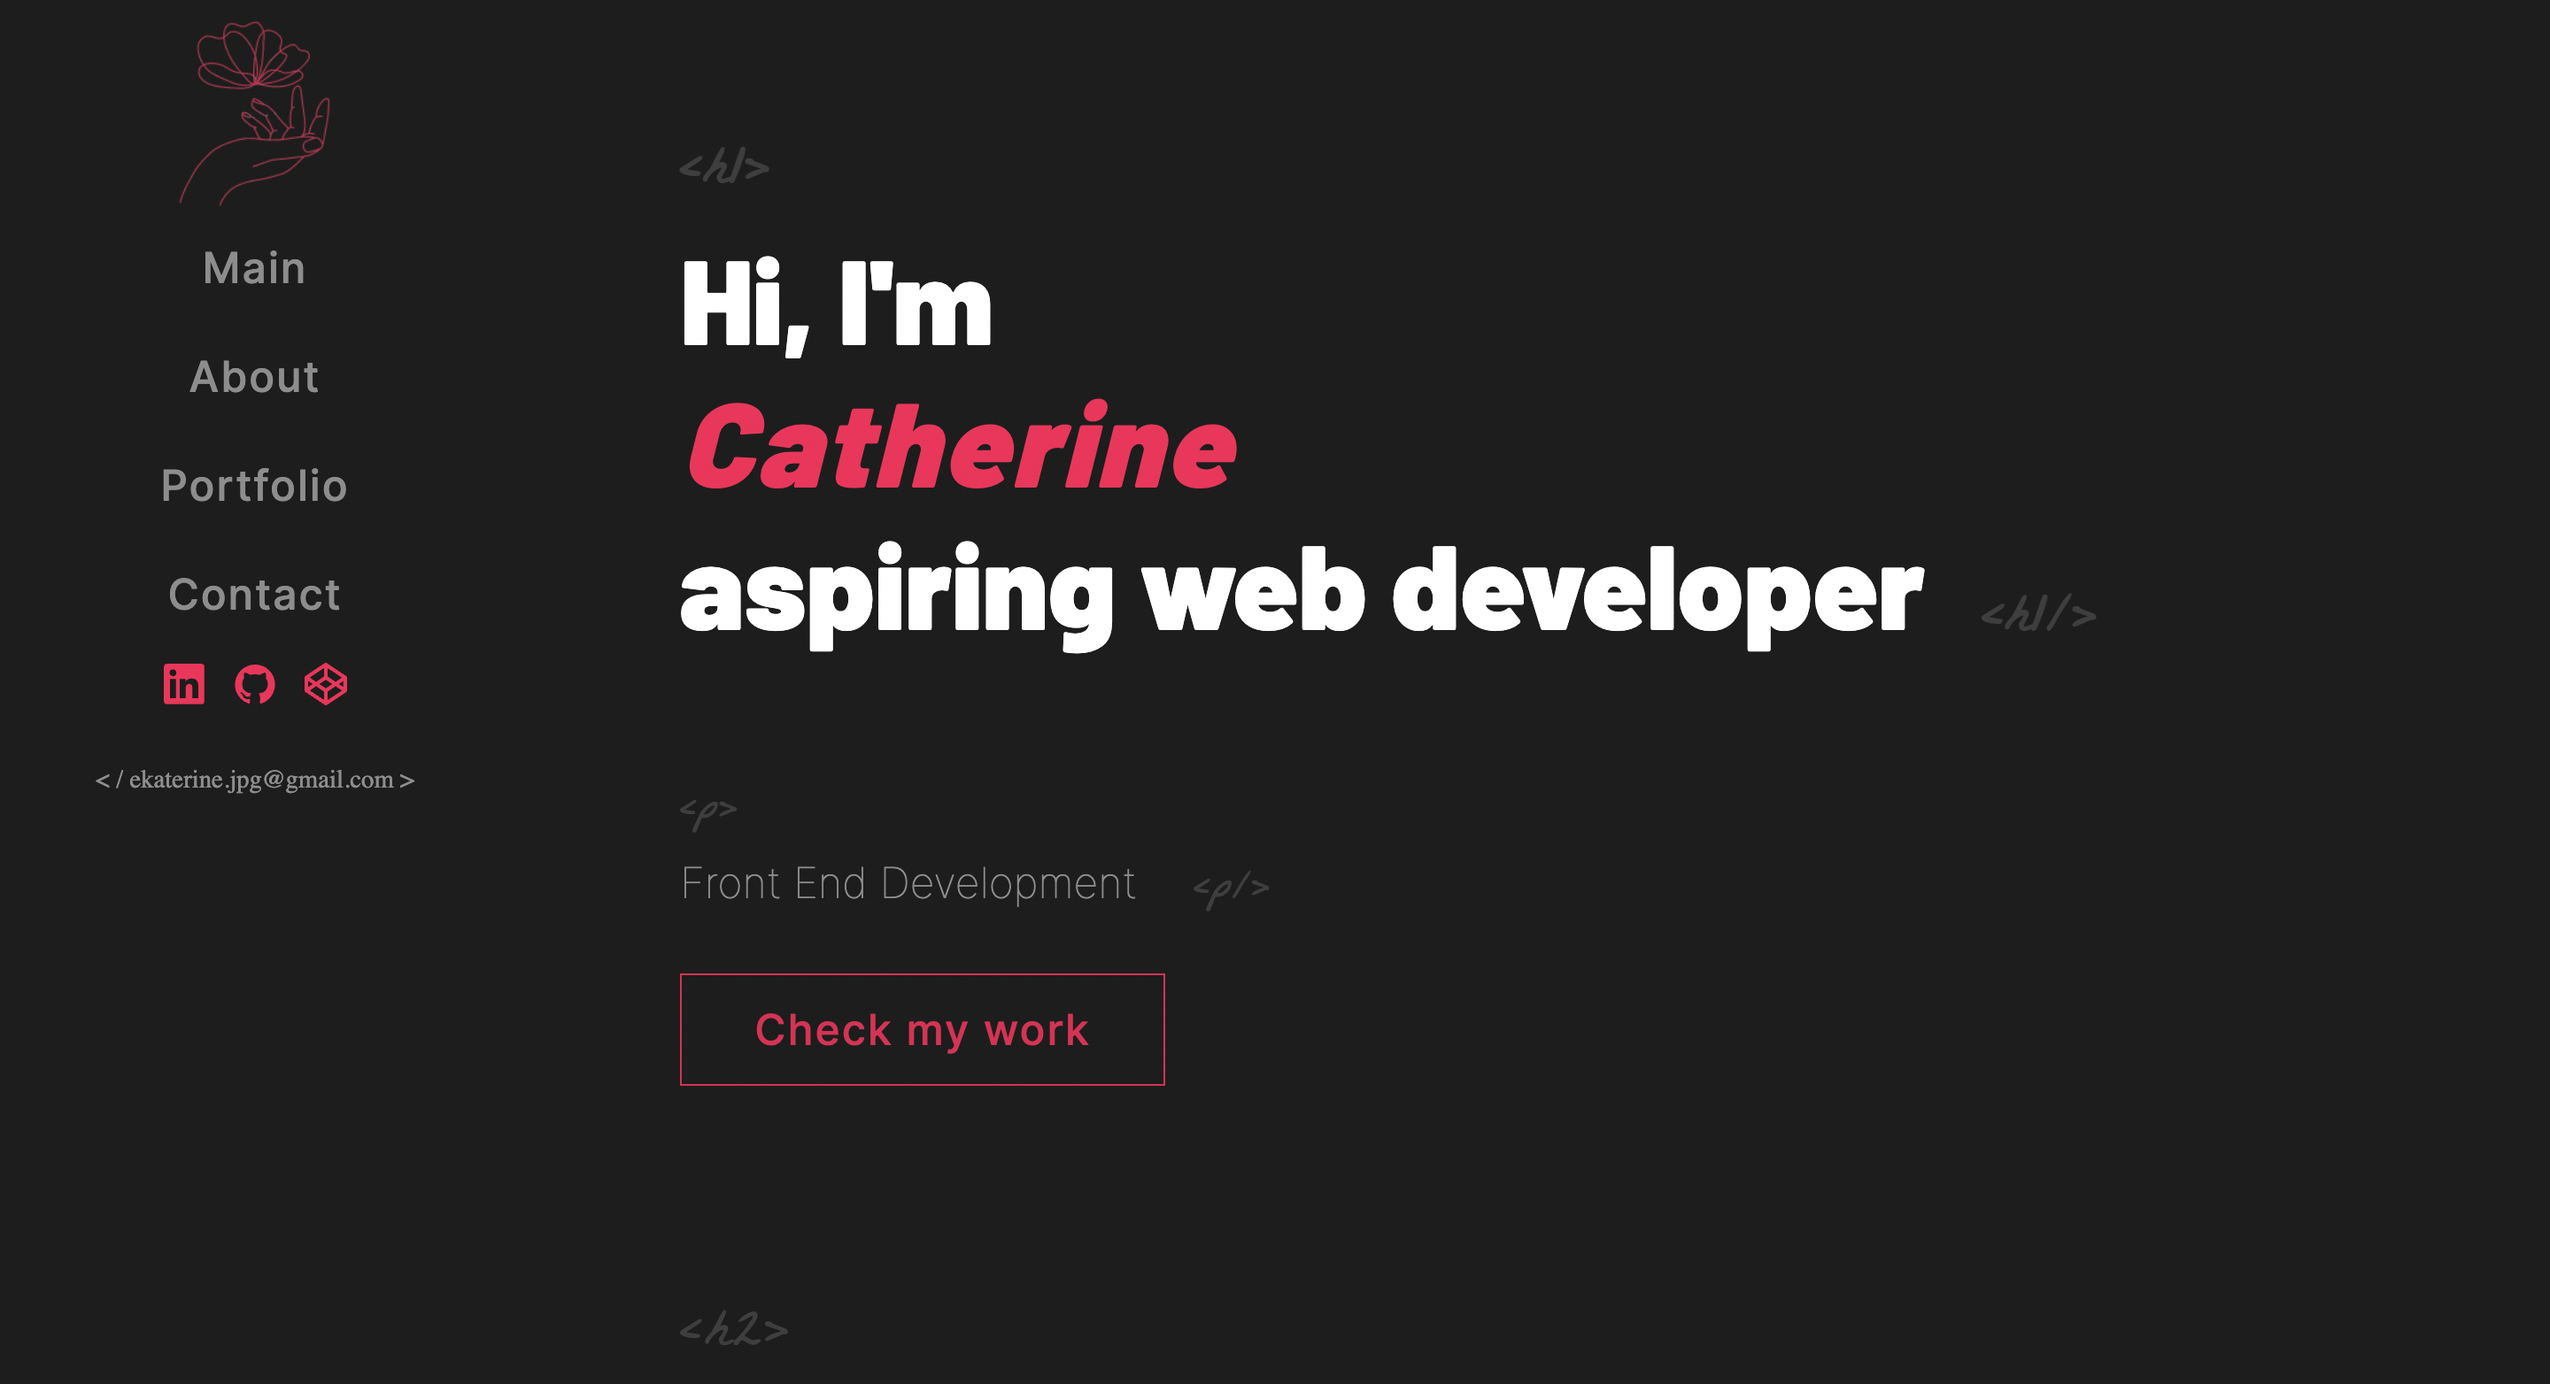
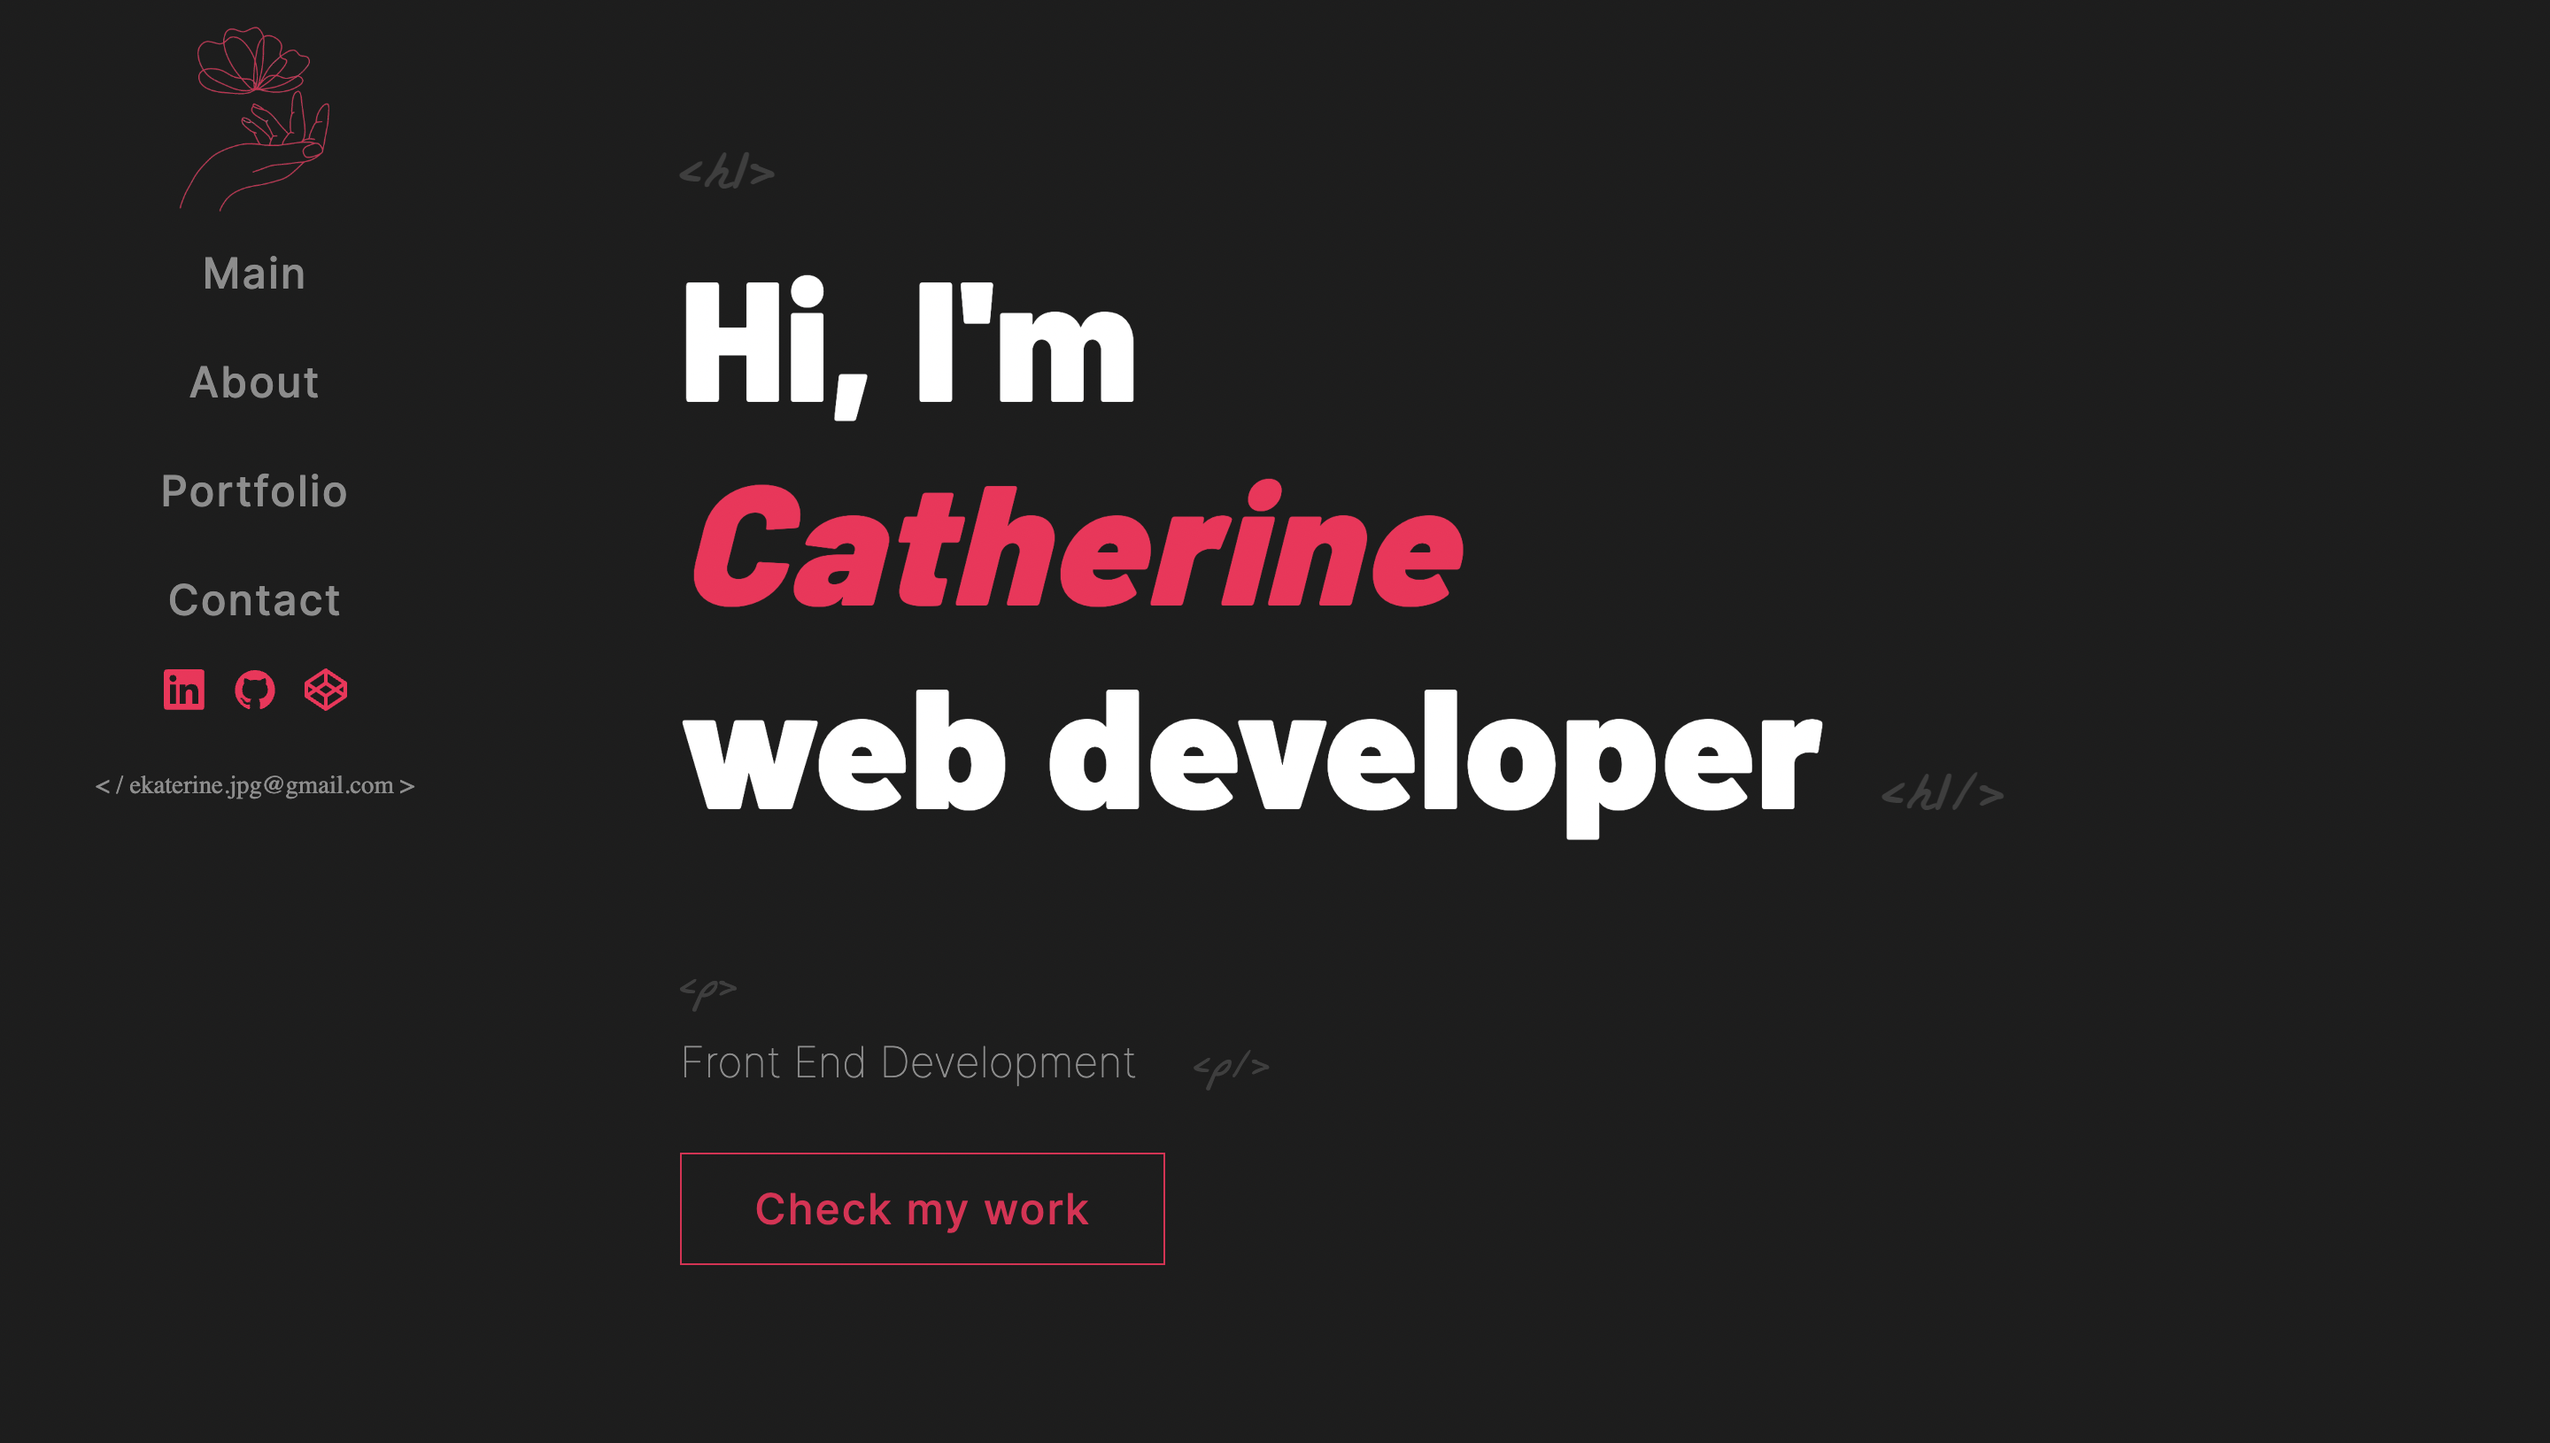
updated project-preview

diff --git a/src/assets/Styles.sass b/src/assets/Styles.sass
@@ -129,12 +129,14 @@
 
     @media (min-width: base.$sm-width)
         h1
-            font-size: 4.2rem
+            font-size: 5rem
         p
             font-size: 1.5rem
         a
             font-size: 1.5rem
-
+    @media (min-width: base.$xl-width)
+        h1
+            font-size: 6rem
 //ABOUT
 .about, .about-main
     padding: 1.5rem
